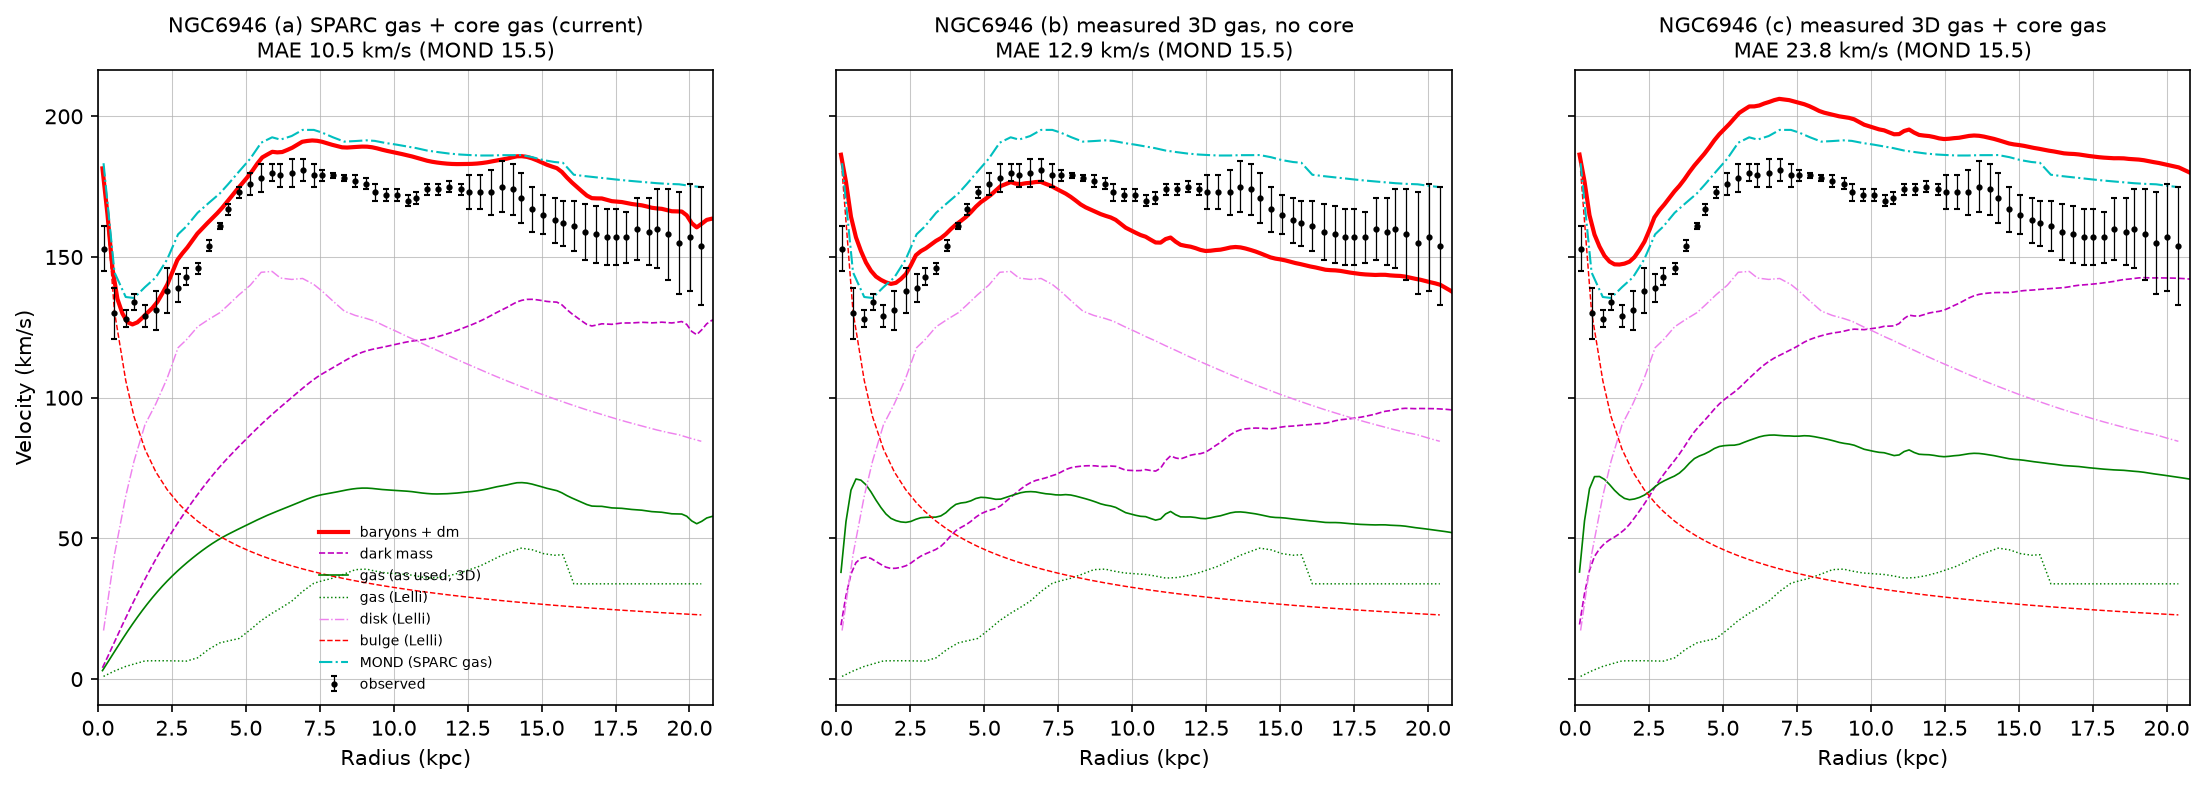
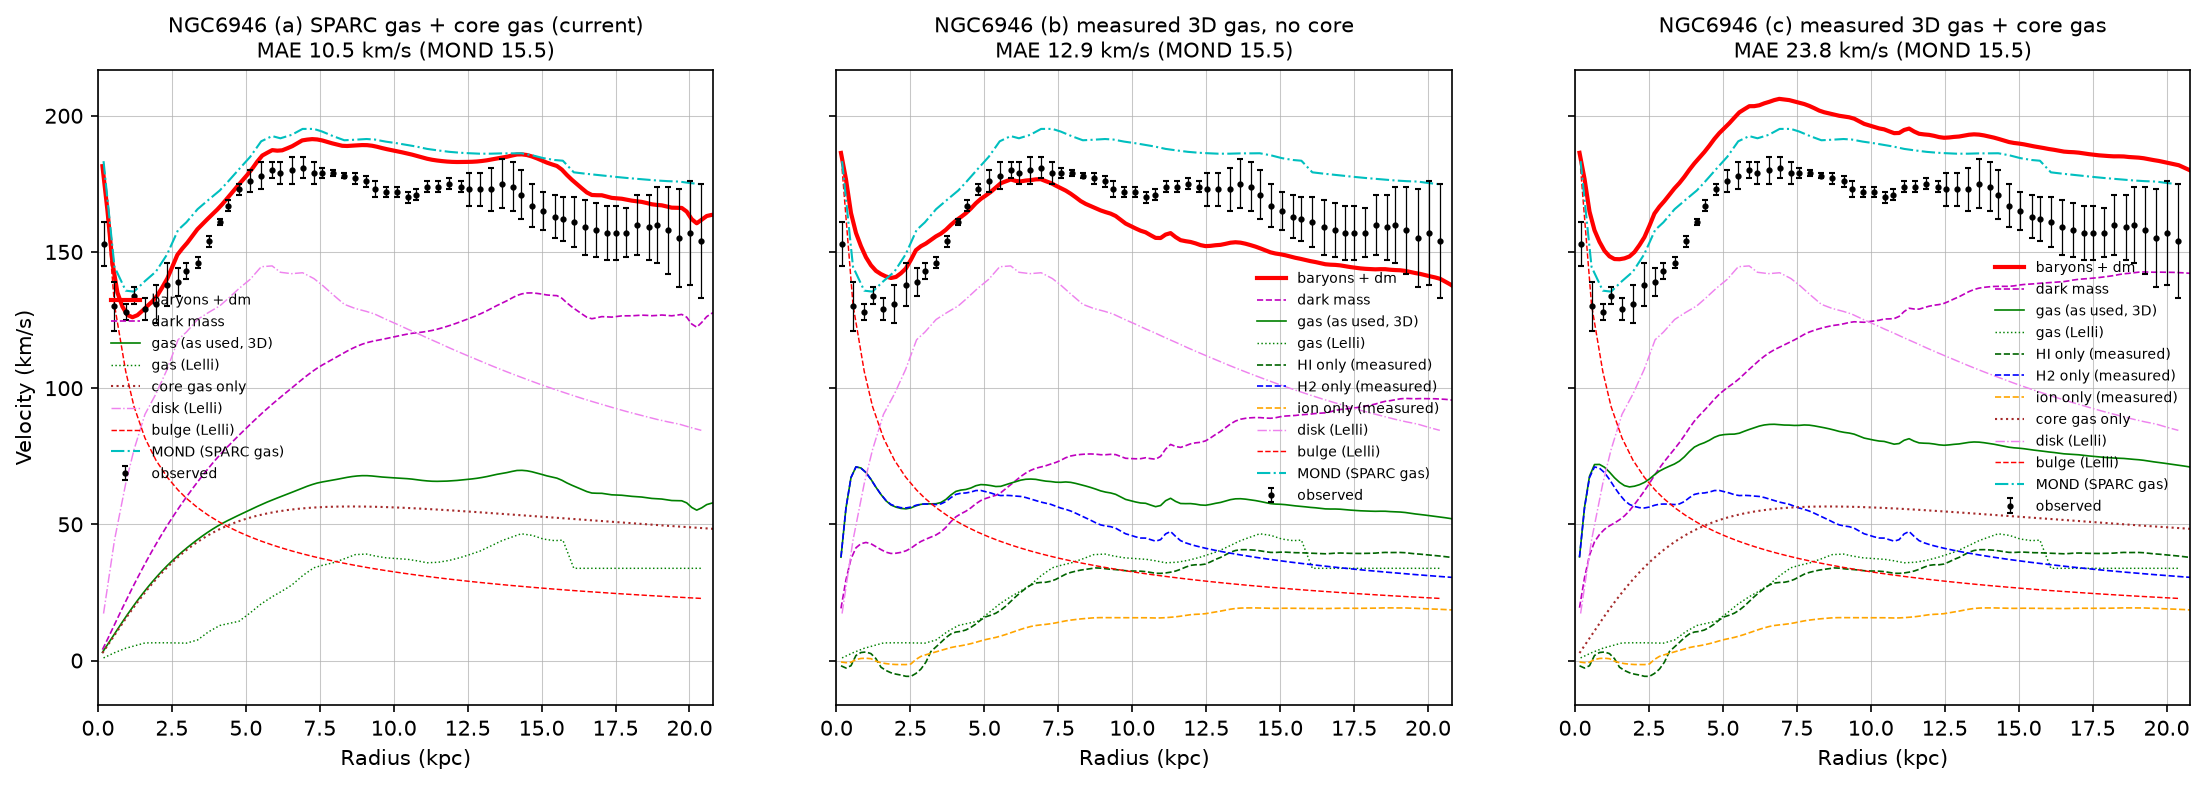
3D gas test: plot HI, H2, ionized and core gas curves separately
Shows the H2 contribution (matches Frank et al. 2016 for NGC 2403) that
was hidden in the quadrature-summed gas line. Results unchanged.

diff --git a/sparc/gas3d_test.py b/sparc/gas3d_test.py
@@ -50,7 +50,7 @@ def load_profiles(gal):
     return dict(R=d[:, 0], HI=d[:, 1], H2=d[:, 3], clump_tot=d[:, 7])
 
 
-def make_density_fn(prof, alpha_scale=1.0, f_ion=F_ION):
+def make_density_fn(prof, alpha_scale=1.0, f_ion=F_ION, phases=("HI", "H2", "ion")):
     """Returns fn(R_m, Z_m, Theta_m) -> gas particle density [m^-3] for run_sparc_dm_brute_cgm(supplied_gas_density=...)."""
     def fn(R_m, Z_m, Theta_m):
         R_kpc = R_m[:, 0, 0] / kpc_to_m
@@ -61,7 +61,9 @@ def make_density_fn(prof, alpha_scale=1.0, f_ion=F_ION):
         S_H2 = alpha_scale * np.interp(R_kpc, prof["R"], prof["H2"]) * 1e4
         S_ion = f_ion * S_HI
         n = np.zeros(R_m.shape[:2])
-        for S, h in ((S_HI, h_HI_kpc(R_kpc)), (S_H2, np.full_like(R_kpc, H_H2_KPC)), (S_ion, np.full_like(R_kpc, H_ION_KPC))):
+        for phase, S, h in (("HI", S_HI, h_HI_kpc(R_kpc)), ("H2", S_H2, np.full_like(R_kpc, H_H2_KPC)), ("ion", S_ion, np.full_like(R_kpc, H_ION_KPC))):
+            if phase not in phases:
+                continue
             w = np.exp(-np.abs(z_kpc)[None, :] / h[:, None])
             # normalise on the actual (non-uniform) z layers so each phase keeps exactly its measured column
             w /= np.sum(w * dz[None, :], axis=1)[:, None] * kpc_to_m
@@ -70,10 +72,10 @@ def make_density_fn(prof, alpha_scale=1.0, f_ion=F_ION):
     return fn
 
 
-def run_variant(name, use_measured, core_density, alpha_scale=1.0, f_ion=F_ION, graphs=False):
+def run_variant(name, use_measured, core_density, alpha_scale=1.0, f_ion=F_ION, graphs=False, phases=("HI", "H2", "ion")):
     supplied = None
     if use_measured:
-        supplied = {gal: make_density_fn(load_profiles(gal), alpha_scale, f_ion) for gal in GALAXIES}
+        supplied = {gal: make_density_fn(load_profiles(gal), alpha_scale, f_ion, phases) for gal in GALAXIES}
     core = dict(CORE, add_core_gas_central_density=core_density)
     _, _, gals = run_sparc_dm_brute_cgm(**core, **NO_CGM, num_minutes=NUM_MINUTES, output_graphs=graphs, power_override=POWER,
                                         supplied_gas_density=supplied, only_galaxies=GALAXIES,
@@ -121,6 +123,11 @@ if __name__ == "__main__":
         "b_no_ionized":        run_variant("b_no_ionized", True, 0.0, f_ion=0.0),
     }
 
+    # Newtonian gas velocity of each measured phase on its own (no core), so the H2 and ionized contributions can be seen in the plots.
+    # (The summed gas line adds in quadrature, so a 15 km/s H2 curve under a 35 km/s HI curve barely shows.)
+    phase_runs = {ph: run_variant(f"phase_{ph}", True, 0.0, phases=(ph,)) for ph in ("HI", "H2", "ion")}
+    core_runs = run_variant("phase_core_only", True, core0, phases=())
+
     # core gas scan: how much core gas does each gas model want? (n0 = add_core + correction(M_b), so start above the correction)
     scan_values = [0.15, 0.3, 0.45, 0.6, 0.8, 1.0, 1.3]
     scan = {"sparc": {}, "measured": {}}
@@ -167,6 +174,13 @@ if __name__ == "__main__":
             ax.plot(g['R_grid_kpc'], V_dm_grid, 'm--', linewidth=0.8, label='dark mass')
             ax.plot(g['R_grid_kpc'], g['Vgas_test_grid_kms'], 'g', linewidth=0.8, label='gas (as used, 3D)')
             ax.plot(g['R'], g['Vgas'], 'g', linestyle='dotted', linewidth=0.7, label='gas (Lelli)')
+            if name != "a_sparc_core":
+                for ph, col in (("HI", 'darkgreen'), ("H2", 'blue'), ("ion", 'orange')):
+                    gp = phase_runs[ph][gal]
+                    ax.plot(gp['R_grid_kpc'], gp['Vgas_test_grid_kms'], color=col, linestyle='--', linewidth=0.8, label=f'{ph} only (measured)')
+            if name != "b_measured_nocore":
+                gp = core_runs[gal]
+                ax.plot(gp['R_grid_kpc'], gp['Vgas_test_grid_kms'], color='brown', linestyle=':', linewidth=1.0, label='core gas only')
             ax.plot(g['R'], g['Vdisk'], 'violet', linestyle='dashdot', linewidth=0.7, label='disk (Lelli)')
             if np.any(g['Vbul'] > 0):
                 ax.plot(g['R'], g['Vbul'], 'red', linestyle='dashed', linewidth=0.7, label='bulge (Lelli)')
@@ -178,7 +192,8 @@ if __name__ == "__main__":
             ax.set_xlim(0, max(g['R']) * 1.02)
             ax.grid(True, linewidth=0.5, alpha=0.7)
         axes[0].set_ylabel('Velocity (km/s)')
-        axes[0].legend(fontsize='x-small', frameon=False)
+        for ax in axes:
+            ax.legend(fontsize='x-small', frameon=False)
         plt.savefig(os.path.join(OUT_DIR, f"{gal}_3dgas_variants.png"), bbox_inches='tight', dpi=150)
         plt.close()
 

diff --git a/sparc/gas3d/RESULTS_3D_gas_test.md b/sparc/gas3d/RESULTS_3D_gas_test.md
@@ -74,6 +74,7 @@ Gas mass inside a sphere of radius R_max (M☉, ×1.33 for helium):
 
 ## Data checks
 
+- **Per-phase gas curves.** Panels (b) and (c) of the variant plots show the HI, H2 and ionized curves separately; panels (a) and (c) also show the core gas alone. In NGC 2403 the measured H2 rises to 15.4 km/s at 4 kpc and falls to ~6.7 km/s at 15 kpc. This matches Frank et al. (2016, Fig. 10: ~15–16 km/s at 3.5–4 kpc, ~6 km/s at 18 kpc), so H2 is included correctly. It barely shows in the summed gas line because velocities add in quadrature. Inside ~3 kpc H2 dominates the gas. Beyond 5 kpc it adds only 1–3 km/s to a 25–35 km/s HI curve. Our THINGS HI curve (35 km/s at 15 kpc) is close to Frank's HI. Both are below Lelli's Vgas (45 km/s), which comes from deeper WSRT HI.
 - The measured HI and H2 profiles match the Leroy et al. (2008) tabulated profiles closely (`*_profiles.png`). Total THINGS HI is 2.5e9 M☉ (NGC 2403) and 3.6e9 M☉ (NGC 6946), which matches Walter et al. 2008 rescaled to the SPARC distances.
 - THINGS is not "complete" HI. SPARC's HI masses come from deeper WSRT data (Fraternali et al. 2002; Boomsma et al. 2008) and are higher: 3.2e9 and 5.7e9 M☉. The missing HI is mostly diffuse and outer/extraplanar. Adding it (25–60% more HI) would help NGC 6946's outer deficit somewhat. It cannot come close to the ≥1e10 M☉ NGC 2403 asks for.
 - **Side finding:** for NGC 2403, the SPARC Σ_gas column made by `calc_gas_checkit.py` integrates to 4.0e9 M☉ (H only) to R_max. That is 25% more than SPARC's own M_HI and 60% more than THINGS. The Vgas inversion seems to inflate this galaxy's gas.
